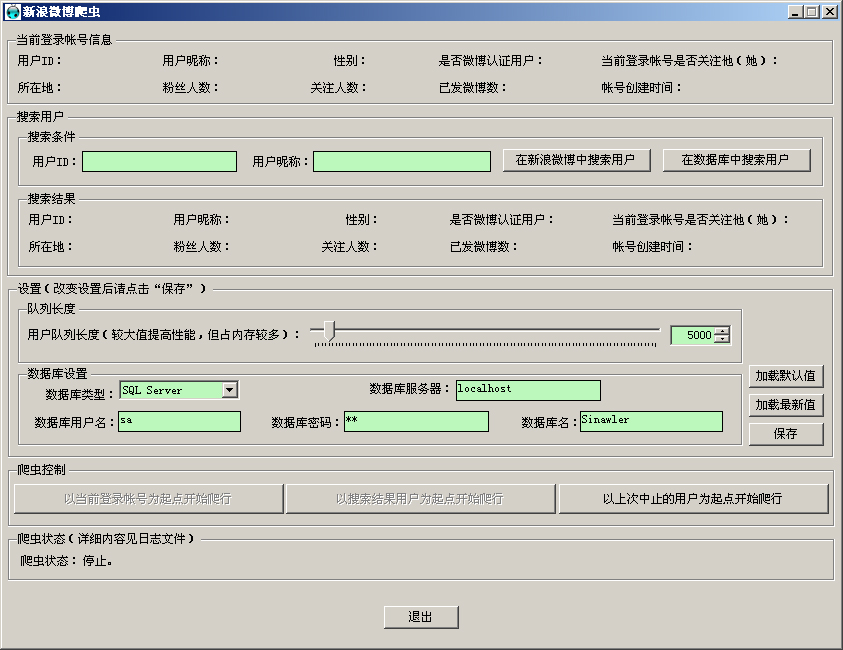
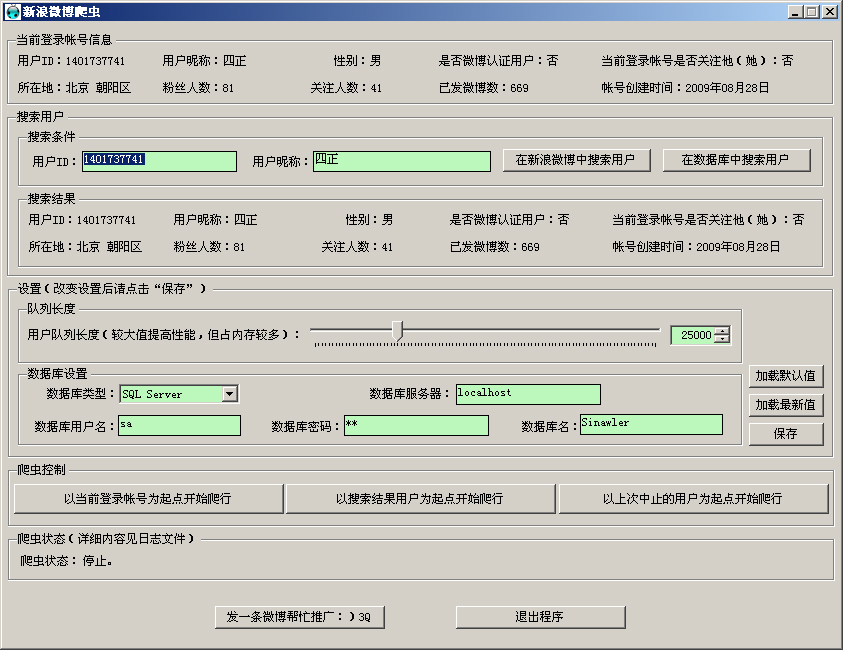
1、修改了推广微博的内容，添加了日期时间，以避免发送重复微博导致失败 2、修改了截图大小

diff --git a/Sinawler/Sinawler/Properties/AssemblyInfo.cs b/Sinawler/Sinawler/Properties/AssemblyInfo.cs
@@ -30,6 +30,6 @@ using System.Resources;
 //      内部版本号
 //      修订号
 //
-[assembly: AssemblyVersion("1.1.0.0")]
-[assembly: AssemblyFileVersion("1.1.0.0")]
+[assembly: AssemblyVersion("1.1.0.1")]
+[assembly: AssemblyFileVersion("1.1.0.1")]
 [assembly: NeutralResourcesLanguageAttribute("zh-CHS")]
